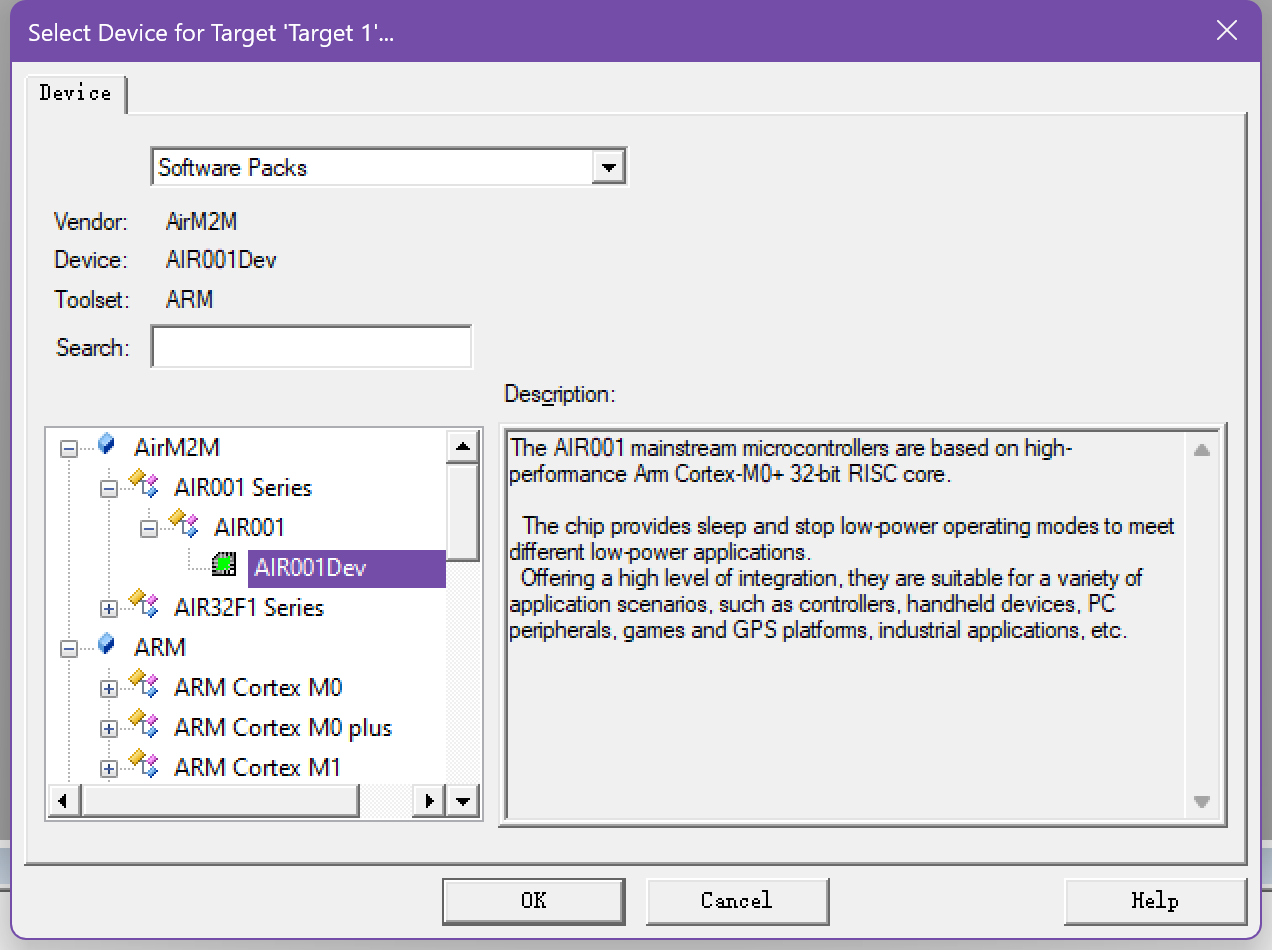
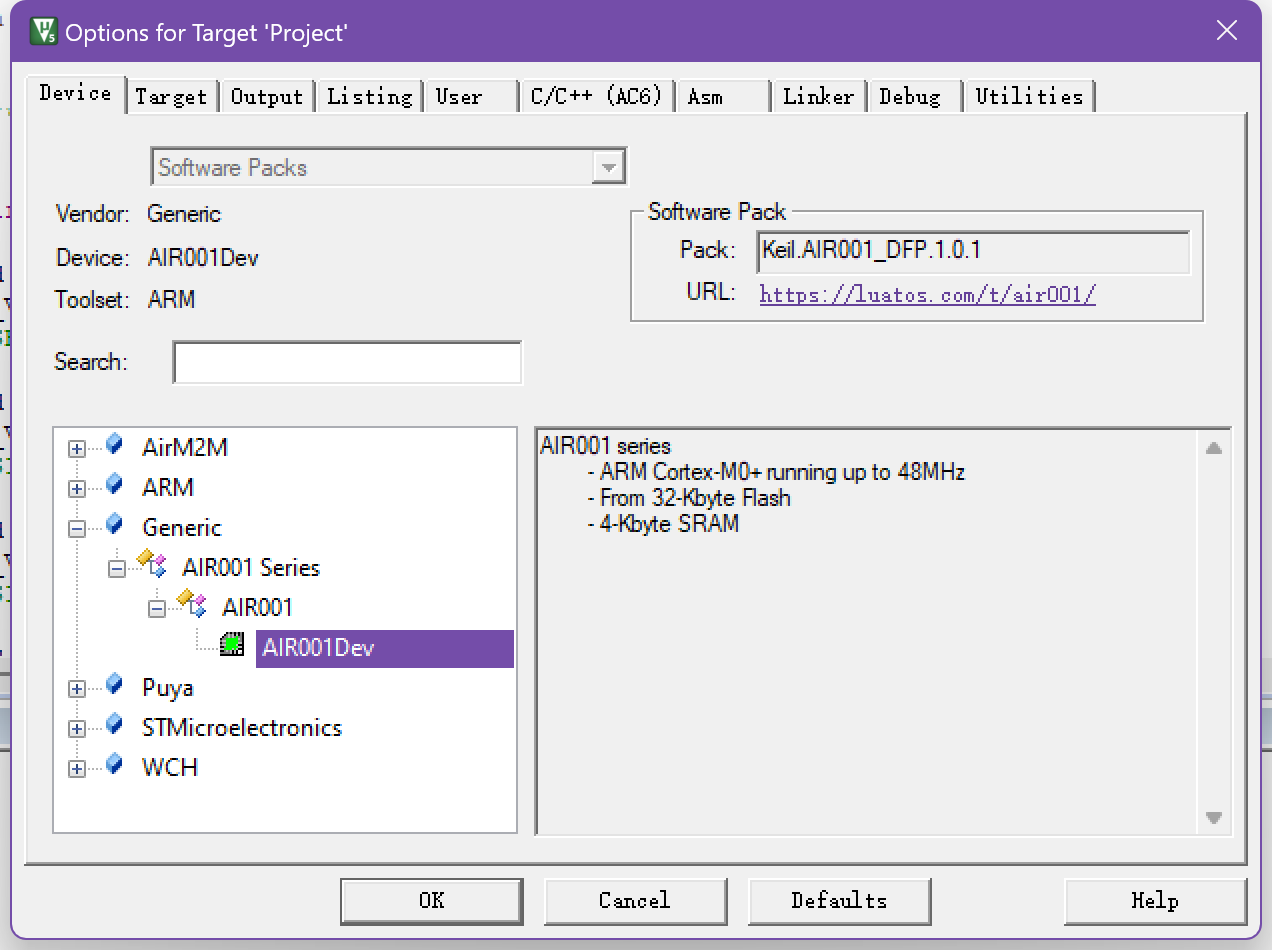
fix: 修改关于Air001 pack包的描述

diff --git a/chips/air001/Air001-MDK.md b/chips/air001/Air001-MDK.md
@@ -17,10 +17,9 @@
 
 ### 安装支持包
 
-找到AIR_Jlink_Keil文件夹中最新版本的pack文件，双击安装即可，安装后可在keil设备列表的AirM2M下看到Air001设备。
+找到AIR_Jlink_Keil文件夹中最新版本的pack文件，双击安装即可，安装后可在keil设备列表的Generic下看到Air001设备。
 
 ![](img/2023-05-08-19-33-22.png)
-
 ### 新建工程
 
 #### 0x00 新建工程
@@ -219,7 +218,7 @@ int main(void)
 
 ### 安装支持包
 
-找到AIR_Jlink_Keil文件夹中最新版本的pack文件，双击安装即可，安装后可在keil设备列表的AirM2M下看到Air001设备。
+找到AIR_Jlink_Keil文件夹中最新版本的pack文件，双击安装即可，安装后可在keil设备列表的Generic下看到Air001设备。
 
 ![](img/2023-05-08-19-33-22.png)
 
